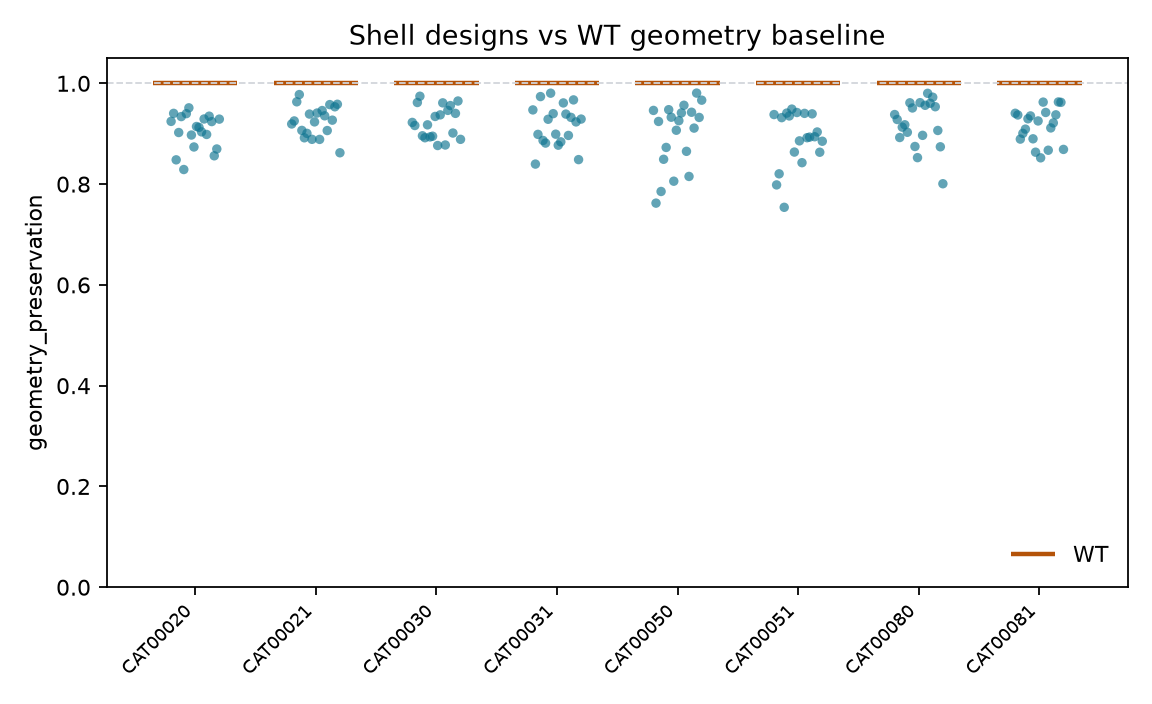
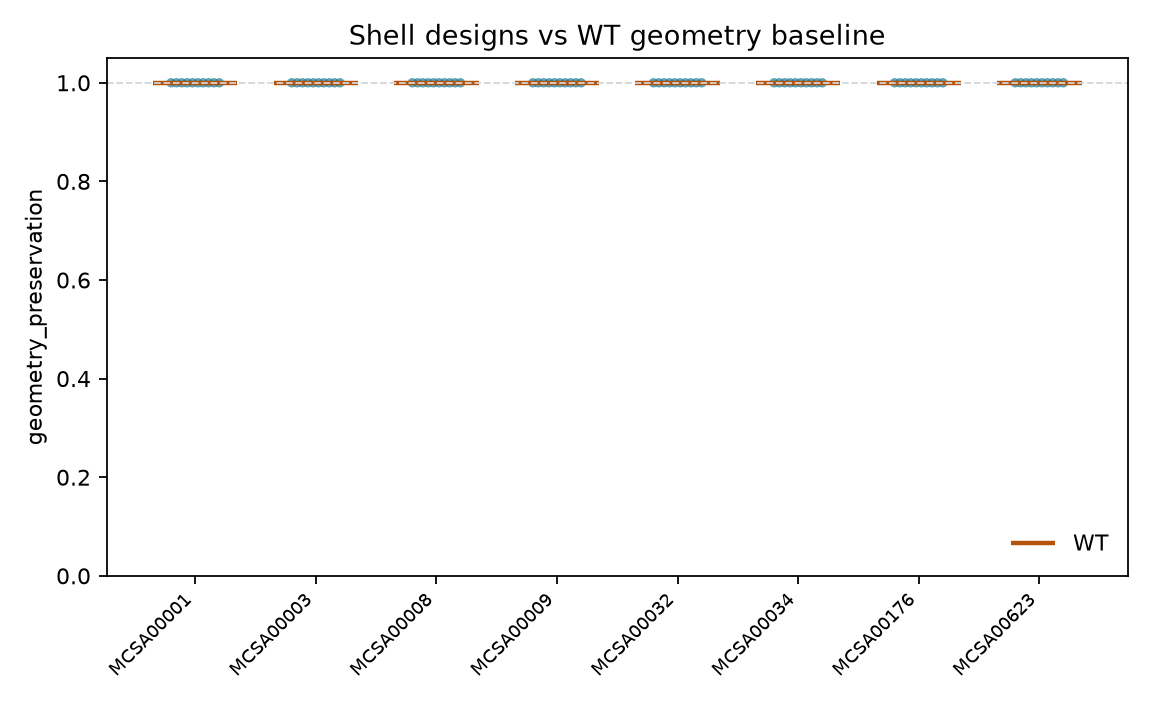
update

diff --git a/scripts/run_colabfold_queue.py b/scripts/run_colabfold_queue.py
@@ -1,0 +1,122 @@
+#!/usr/bin/env python3
+"""Run ColabFold on af_queue.fasta and write design.predict metrics JSON.
+
+Usage on GPU box:
+  pip install 'colabfold[alphafold-minus-jax]@git+https://github.com/sokrypton/ColabFold'
+  # or localcolabfold
+  python scripts/run_colabfold_queue.py
+"""
+
+from __future__ import annotations
+
+import json
+import os
+import re
+import subprocess
+import sys
+from pathlib import Path
+
+ROOT = Path(__file__).resolve().parents[1]
+FASTA = ROOT / "data" / "processed" / "design" / "af_queue.fasta"
+OUT = ROOT / "data" / "processed" / "design" / "colabfold_out"
+PRED = ROOT / "data" / "processed" / "design" / "predictions"
+
+
+def _parse_fasta(path: Path) -> list[tuple[str, str, str]]:
+    recs: list[tuple[str, str, str]] = []
+    eid = did = None
+    chunks: list[str] = []
+    for line in path.read_text().splitlines():
+        if line.startswith(">"):
+            if eid and did and chunks:
+                recs.append((eid, did, "".join(chunks)))
+            header = line[1:].strip()
+            if "|" in header:
+                eid, did = header.split("|", 1)
+            else:
+                eid, did = "unknown", header
+            chunks = []
+        else:
+            chunks.append(line.strip())
+    if eid and did and chunks:
+        recs.append((eid, did, "".join(chunks)))
+    return recs
+
+
+def _mean_plddt_from_pdb(pdb_path: Path) -> float | None:
+    vals: list[float] = []
+    for line in pdb_path.read_text(errors="replace").splitlines():
+        if line.startswith("ATOM") and line[12:16].strip() == "CA":
+            try:
+                vals.append(float(line[60:66]))
+            except ValueError:
+                continue
+    if not vals:
+        return None
+    return sum(vals) / len(vals)
+
+
+def main() -> int:
+    if not FASTA.exists():
+        print(f"missing {FASTA}", file=sys.stderr)
+        return 1
+    OUT.mkdir(parents=True, exist_ok=True)
+    PRED.mkdir(parents=True, exist_ok=True)
+
+    # Prefer colabfold_batch if available.
+    cmd = [
+        "colabfold_batch",
+        str(FASTA),
+        str(OUT),
+        "--num-models",
+        "1",
+        "--num-recycle",
+        "1",
+        "--model-type",
+        "alphafold2_ptm",
+    ]
+    print("RUN", " ".join(cmd), flush=True)
+    try:
+        subprocess.run(cmd, check=True)
+    except FileNotFoundError:
+        print(
+            "colabfold_batch not found. Install LocalColabFold or colabfold CLI.",
+            file=sys.stderr,
+        )
+        return 2
+
+    # Map outputs → metrics.json
+    n = 0
+    for pdb in OUT.rglob("*.pdb"):
+        name = pdb.stem
+        # Expect enzyme_id|design_id or enzyme_id_design_id in filename
+        m = re.match(r"(.+?)[\|_](.+?)(?:_unrelaxed|_relaxed|_rank).*$", name)
+        if not m:
+            # ColabFold often uses header with underscores
+            parts = name.split("_")
+            if len(parts) < 2:
+                continue
+            eid, did = parts[0], "_".join(parts[1:]).split("_unrelaxed")[0].split("_rank")[0]
+        else:
+            eid, did = m.group(1), m.group(2)
+        plddt = _mean_plddt_from_pdb(pdb)
+        if plddt is None:
+            continue
+        dest = PRED / eid / did
+        dest.mkdir(parents=True, exist_ok=True)
+        metrics = {
+            "enzyme_id": eid,
+            "design_id": did,
+            "mean_plddt": float(plddt),
+            "pocket_pae": None,
+            "pdb_path": str(pdb),
+            "source": "colabfold",
+        }
+        (dest / "metrics.json").write_text(json.dumps(metrics, indent=2))
+        n += 1
+    print(f"wrote metrics for {n} models → {PRED}")
+    return 0
+
+
+if __name__ == "__main__":
+    raise SystemExit(main())

diff --git a/src/catalyst_atlas/design/generate.py b/src/catalyst_atlas/design/generate.py
@@ -130,6 +130,8 @@ def generate_mock_designs(
 def validate_records(
     records: list[dict[str, str]],
     pocket: dict[str, Any],
+    *,
+    skip_invalid: bool = True,
 ) -> list[dict[str, str]]:
     wt = pocket["sequence"]
     eid = pocket["enzyme_id"]
@@ -139,10 +141,37 @@ def validate_records(
         if rec.get("enzyme_id") and rec["enzyme_id"] not in {"", eid}:
             # Allow blank enzyme_id from FASTA; otherwise must match.
             if rec["enzyme_id"] != eid:
-                raise DesignInvariantError(
-                    f"FASTA enzyme_id {rec['enzyme_id']} != pocket {eid}"
-                )
-        assert_design_invariants(seq, wt, pocket)
+                msg = f"FASTA enzyme_id {rec['enzyme_id']} != pocket {eid}"
+                if skip_invalid:
+                    logger.warning("skip %s: %s", rec.get("design_id"), msg)
+                    continue
+                raise DesignInvariantError(msg)
+        # ProteinMPNN sometimes emits ±1 length vs our CA map; try trim/pad sync.
+        if len(seq) == len(wt) + 1:
+            # Drop a terminal gap residue if catalytic/shell still match after trim.
+            for candidate in (seq[:-1], seq[1:]):
+                try:
+                    assert_design_invariants(candidate, wt, pocket)
+                    seq = candidate
+                    break
+                except DesignInvariantError:
+                    continue
+        elif len(seq) == len(wt) - 1:
+            logger.warning(
+                "skip %s: designed shorter than WT (%d < %d)",
+                rec.get("design_id"),
+                len(seq),
+                len(wt),
+            )
+            if skip_invalid:
+                continue
+        try:
+            assert_design_invariants(seq, wt, pocket)
+        except DesignInvariantError as exc:
+            if skip_invalid:
+                logger.warning("skip %s: %s", rec.get("design_id"), exc)
+                continue
+            raise
         out.append(
             {
                 "enzyme_id": eid,

diff --git a/src/catalyst_atlas/cli.py b/src/catalyst_atlas/cli.py
@@ -514,7 +514,7 @@ def design_funnel_main(argv: list[str] | None = None) -> int:
         default=10,
         help="Designs per enzyme to carry into AF (default: 10)",
     )
-    parser.add_argument("--max-mutations", type=int, default=12)
+    parser.add_argument("--max-mutations", type=int, default=40)
     parser.add_argument("-v", "--verbose", action="store_true")
     args = parser.parse_args(argv)
     _setup_logging(args.verbose)

diff --git a/src/catalyst_atlas/design/funnel.py b/src/catalyst_atlas/design/funnel.py
@@ -35,7 +35,7 @@ W_CHEAP_ESM = 0.5
 W_CHEAP_CHEM = 0.5
 
 DEFAULT_TOP_K = 10
-DEFAULT_MAX_MUTATIONS = 12
+DEFAULT_MAX_MUTATIONS = 40  # shell redesign can touch many of 8–40 redesignable sites
 
 
 def _charge(aa: str) -> int: